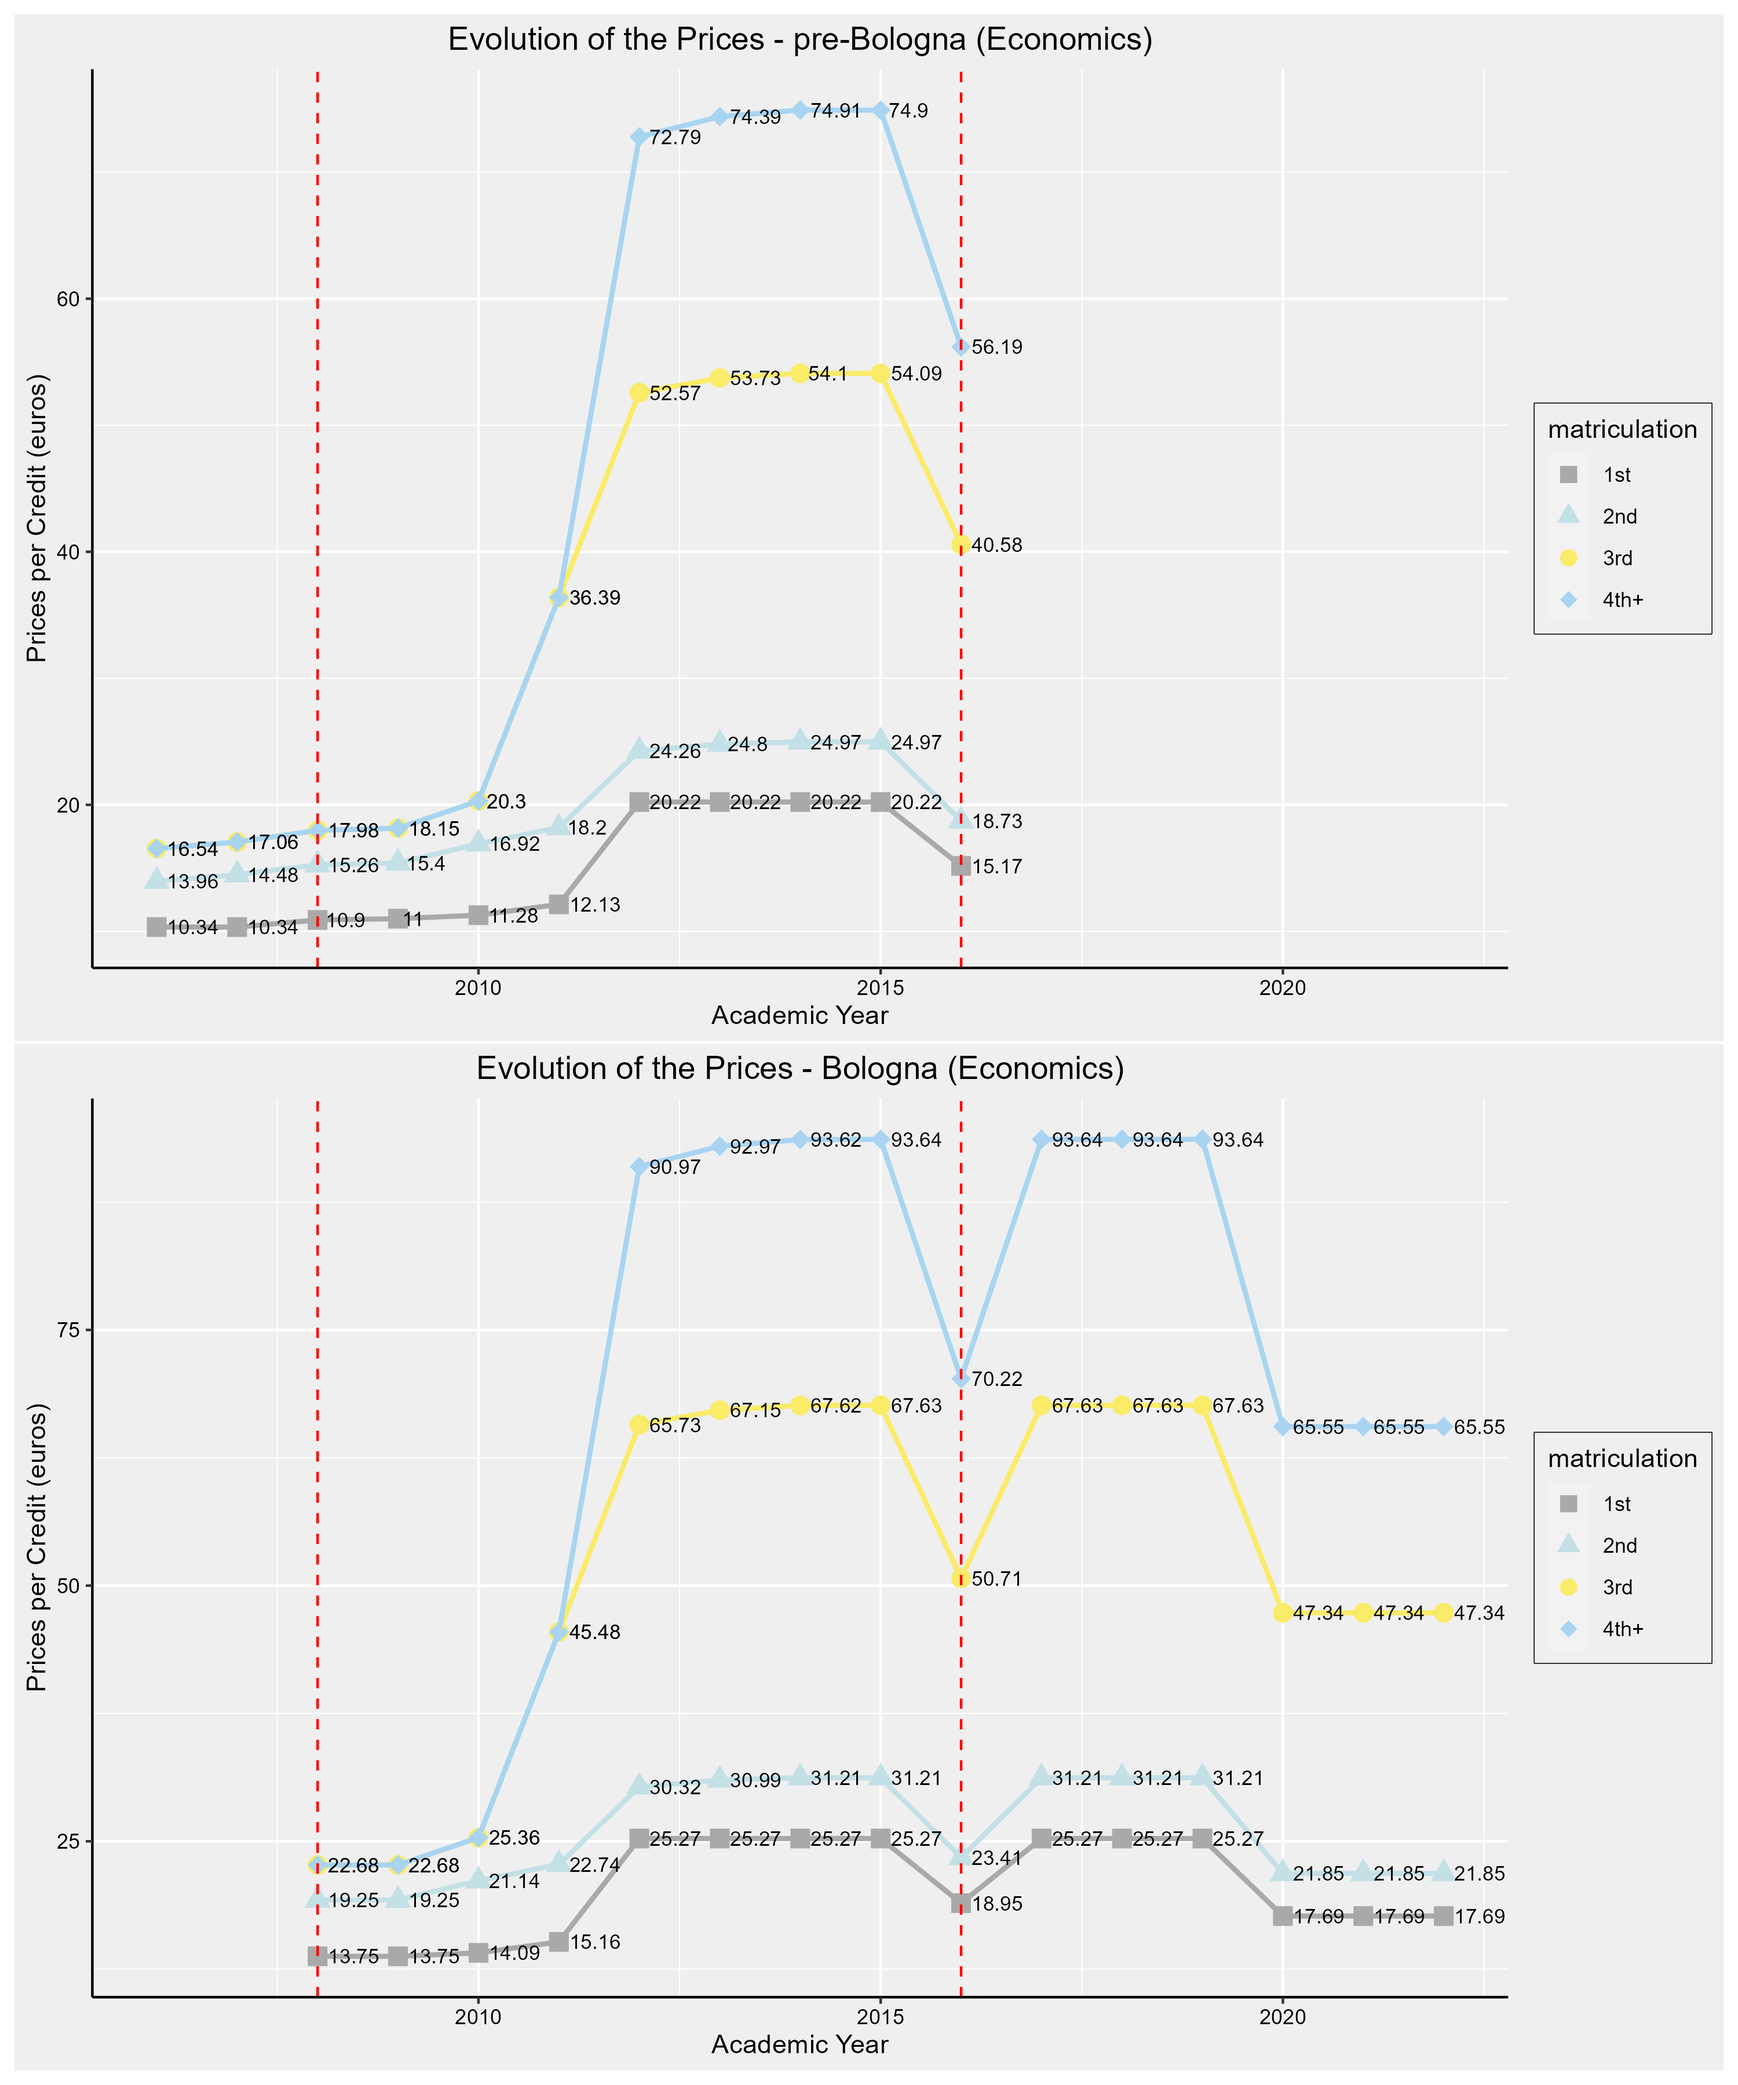
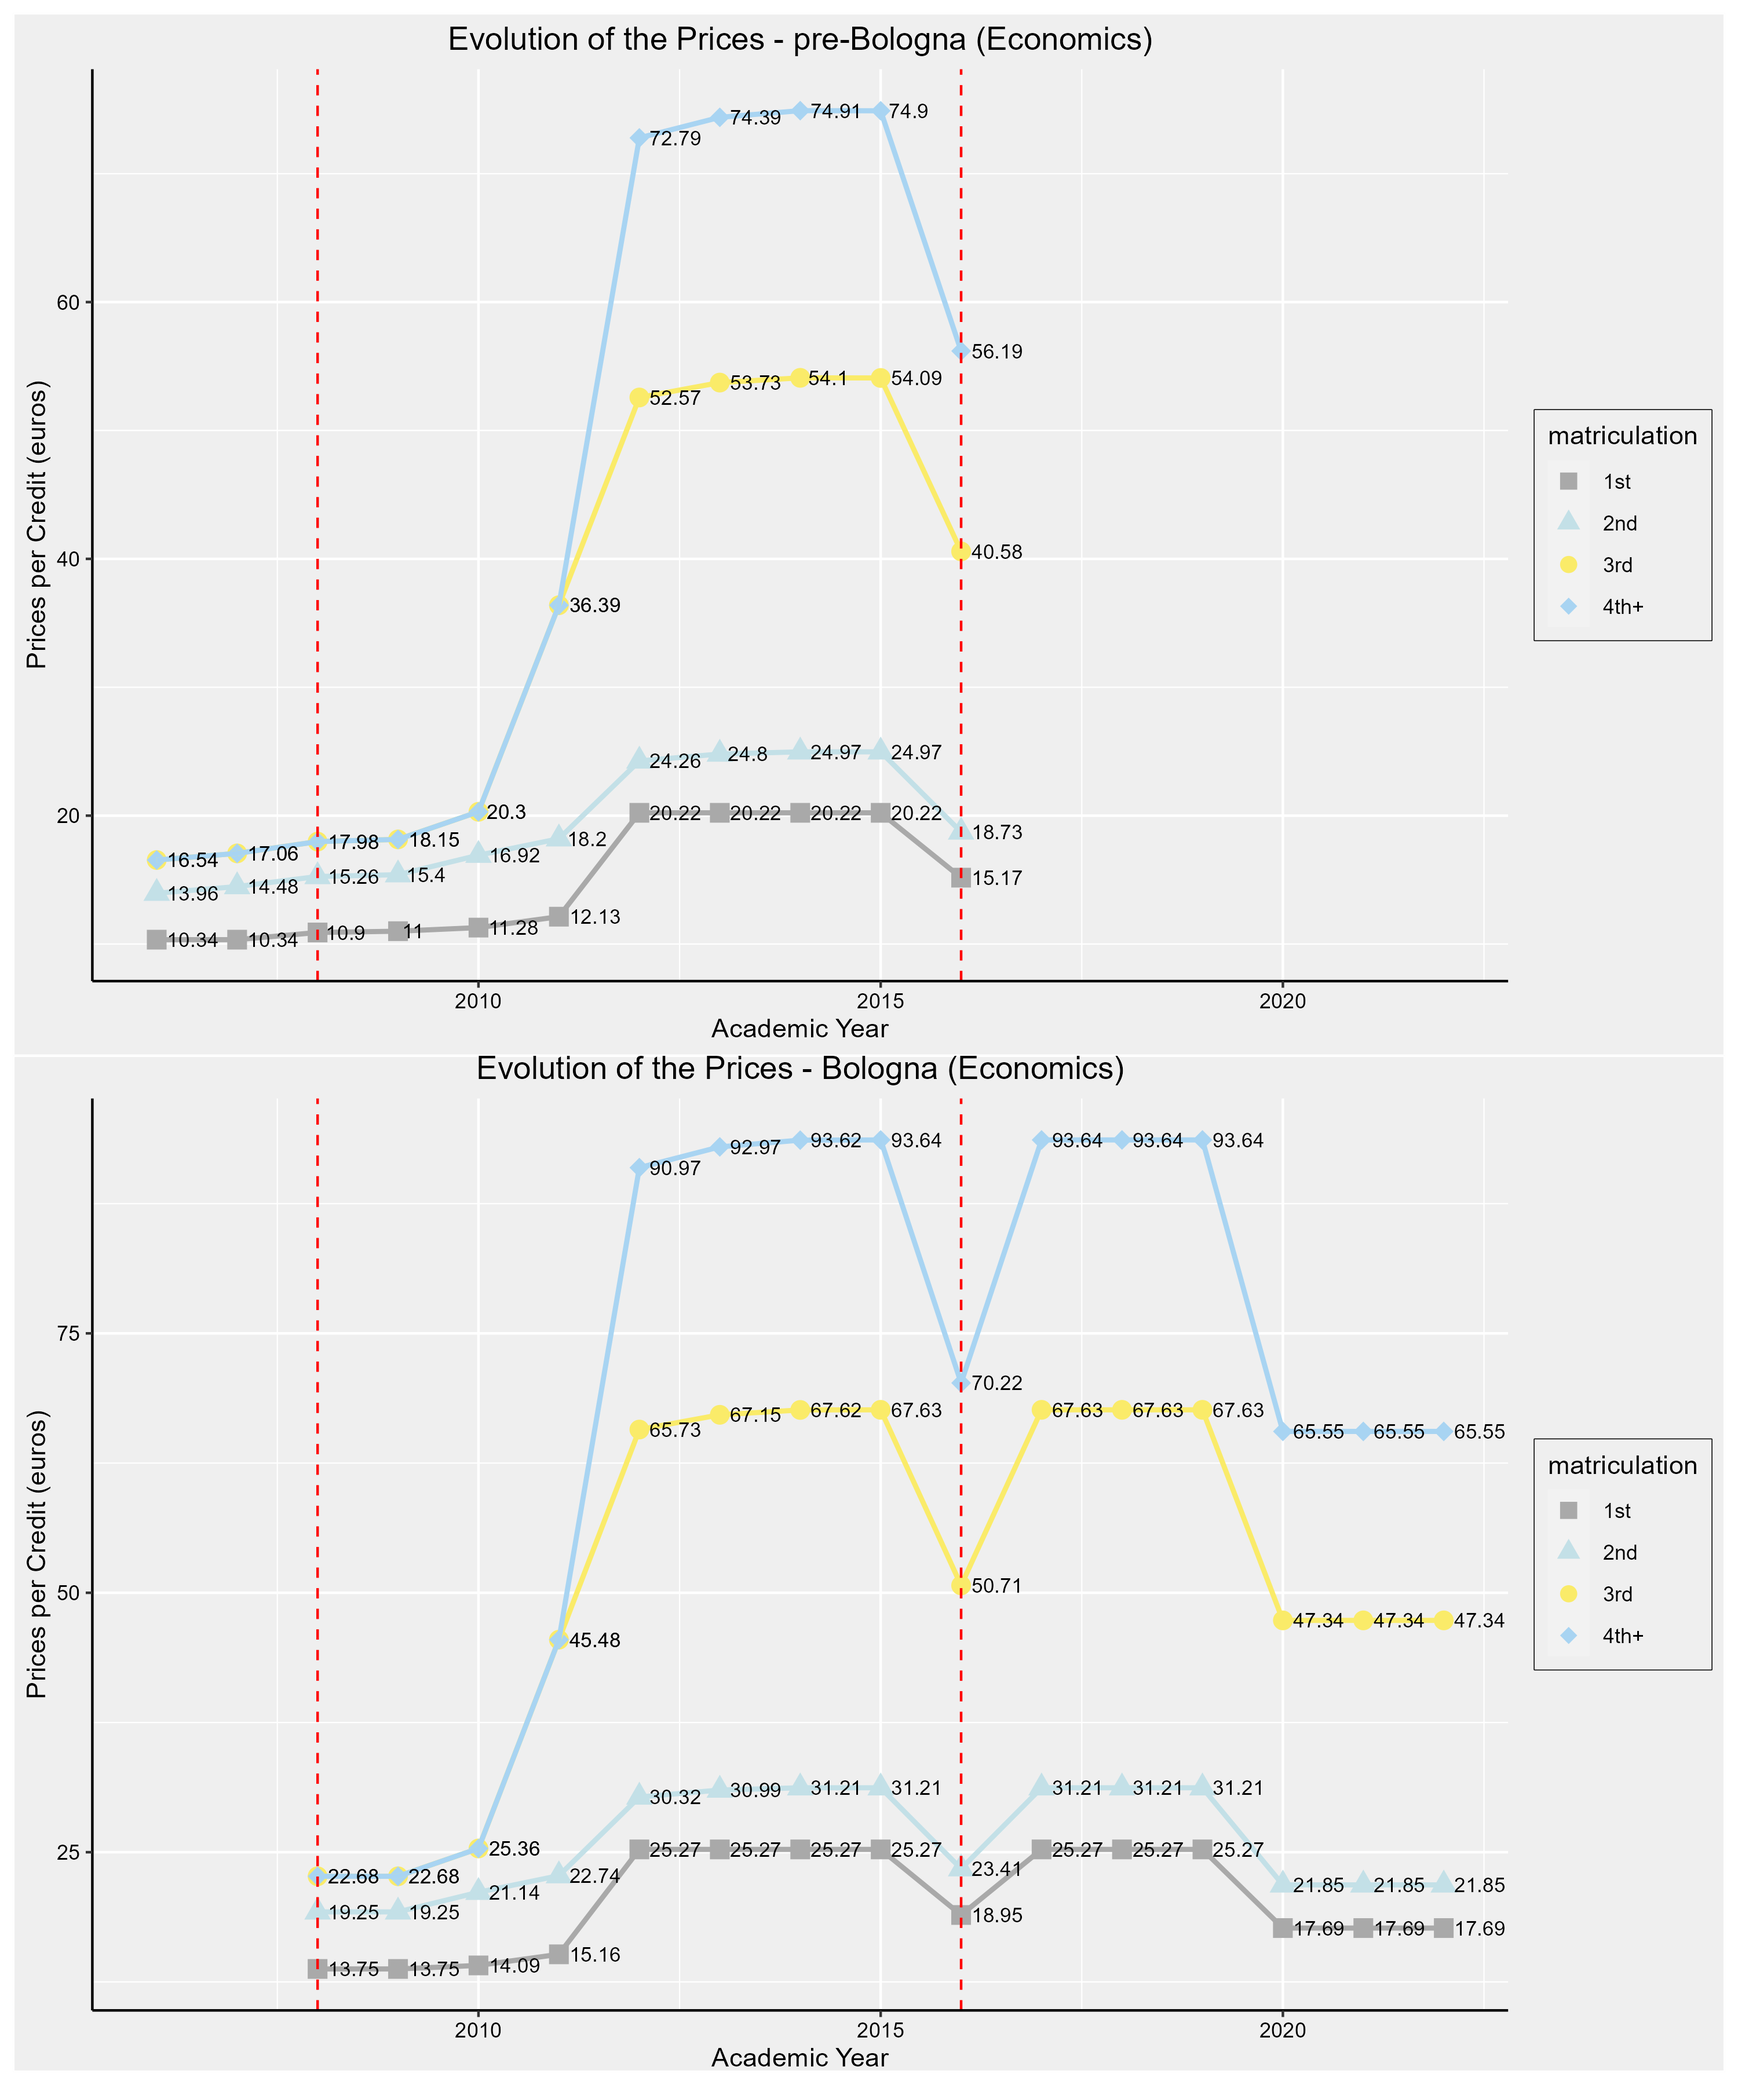
for defence

diff --git a/notes/RP_pre.html b/notes/RP_pre.html
@@ -212,18 +212,13 @@
 							<h3>Appendix: Comparison of the two price systems</h3>
 						</div>
 
-						<div class="slide-body">
-							<div class="image-container">
-							  <div class="row" >
-							    <div class="column">
-							      <img src="assets/exploratory_retake/economics.png" alt="Economics">
-							    </div>
-							    <div class="column">
-							      <img src="assets/exploratory_retake/economics_old.png" alt="Economics_old">
-							    </div>
-							  </div>			
+
+						<div class="slide-body">	
+							<div class="image-container" >
+							    <img src="assets/exploratory_retake/prepost.png" alt="Economics" style="width: auto; height: 560px; margin: 0 auto;border: none;">	
 							</div>
 						</div>
+
 
 						<div class="slide-tail">
 							<div><span class="author-name1"></span></div>

diff --git a/notes/dist/theme/academic.css b/notes/dist/theme/academic.css
@@ -329,6 +329,7 @@ section.has-dark-background, section.has-dark-background h1, section.has-dark-ba
   display: flex;
   justify-content: center;
   align-items: center;
+  border: none;
 }
 
 .row {
